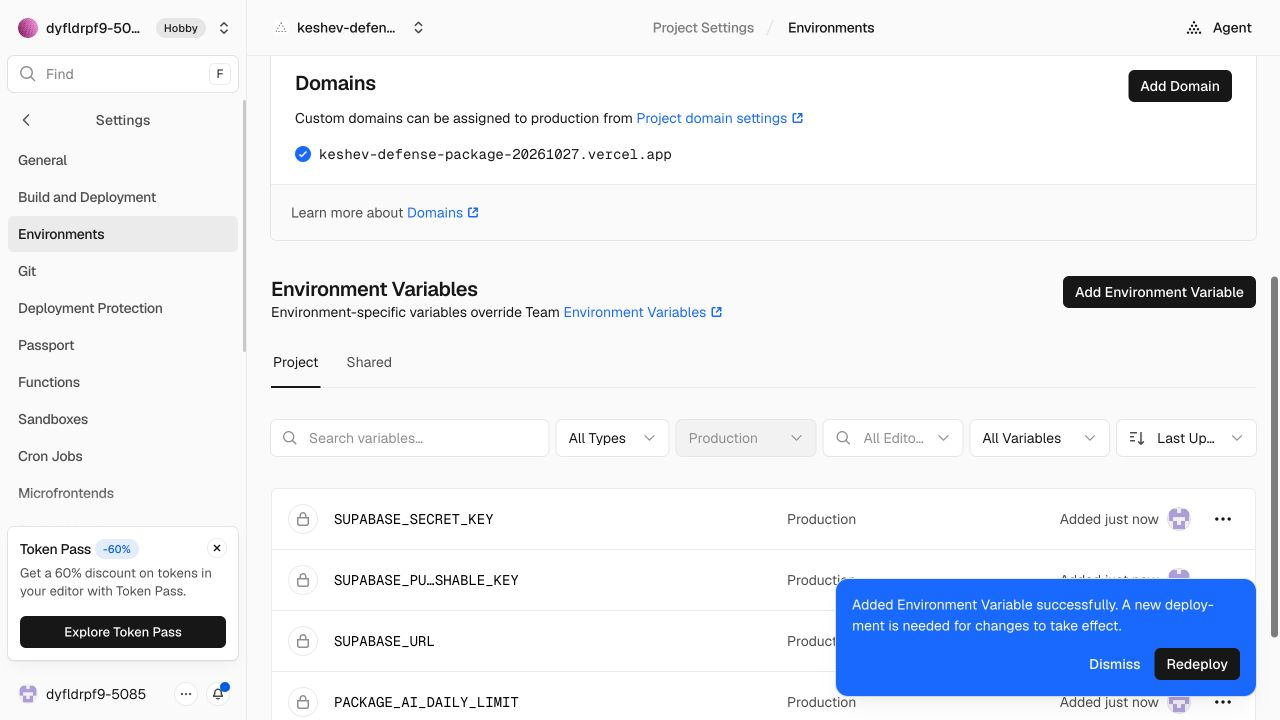
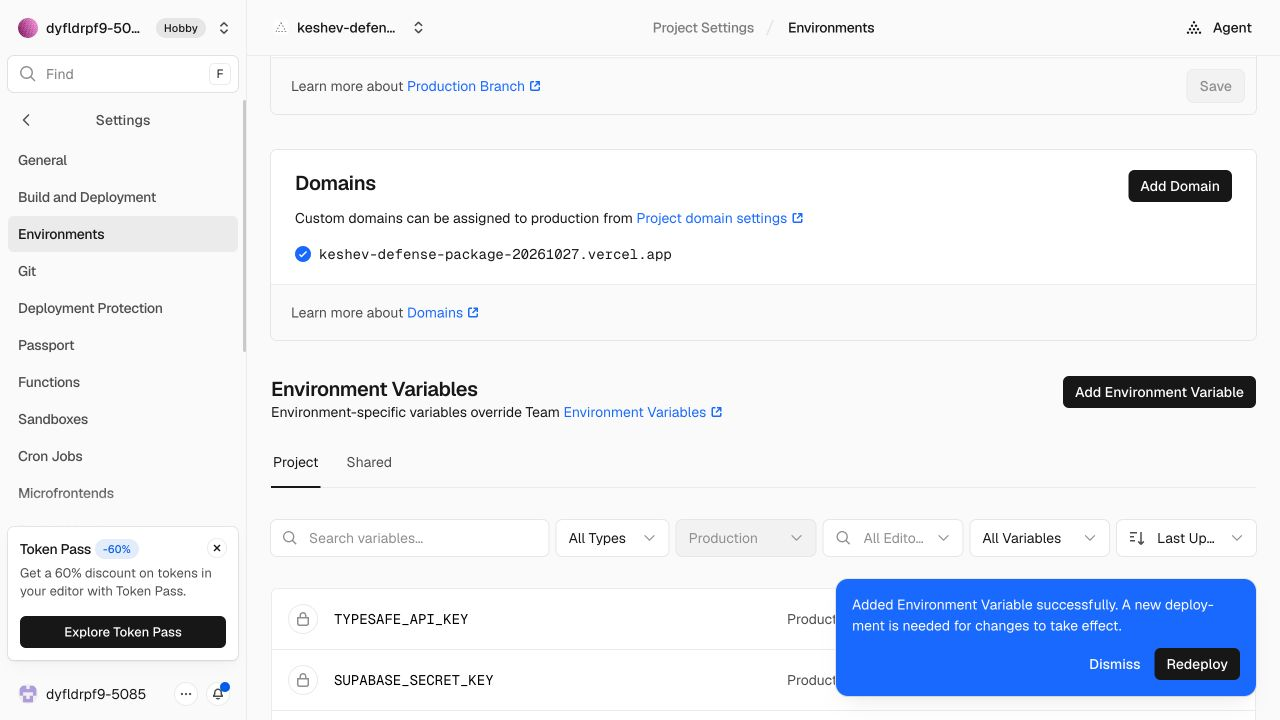
실제 AI 응답·한도 보존 검증과 조회 중 안내 마무리

diff --git a/public/app.js b/public/app.js
@@ -42,6 +42,7 @@
   }
   async function loadNotes() {
     const current = revision;
+    status('내 메모를 불러오는 중입니다.');
     $('#notes').replaceChildren();
     $('#workspace').hidden=true;
     $('#notes').setAttribute('aria-busy','true');

diff --git a/docs/FINAL_SUBMISSION.md b/docs/FINAL_SUBMISSION.md
@@ -1,6 +1,6 @@
 # 케셰브 마무리 제출 · 2026-10-27
 
-> **현재 상태: 제출 보류·요구사항 재검토.** `583e1ffccb1c69695177c0446c5dc2aa7b99a9ca`를 올려 접수했으나, 구현 조건 전체의 대조를 완료하기 전에 제출한 판단을 바로잡고 접수를 되돌렸다. 수정 브랜치는 `codex/defense-requirements-repair`다. 아래의 과거 제출 형식 설명만으로 구현 완료나 재제출 가능을 판단하지 않는다.
+> **구현·실측과 제출 이력.** `583e1ffccb1c69695177c0446c5dc2aa7b99a9ca`를 올려 접수했으나, 구현 조건 전체의 대조를 완료하기 전에 제출한 판단을 바로잡고 접수를 되돌렸다. 수정 브랜치는 `codex/defense-requirements-repair`다. 아래의 과거 제출 형식 설명만으로 구현 완료나 재제출 가능을 판단하지 않는다.
 
 기존 자료실에 인증·기기 승인·접근 제한을 적용하고, 기존 보안 Agent에서 접속 사건을 확인하고 대응하는 앱이다. 사용자 요청에 따라 수업용 SDP 대신 NetBird를 연결했고, PC 감시에는 공식 Wazuh 에이전트와 운영체제별 송신 센서를 추가했다. 새 자료실로 원래 자료를 대체하지 않는다.
 
@@ -16,9 +16,9 @@
 
 제출 파일·포장 형식의 생략과 구현 조건의 생략은 다르다. `setup.exe` 제외, NetBird와 개인 OpenAI OAuth 사용은 사용자의 명시적 선택이며, 이를 사용자별 호출 상한이나 공식 침해 정보 조회 등 다른 조건을 생략하는 근거로 확대하지 않는다.
 
-## 보완해야 할 조건
+## 보완한 조건과 실제 근거
 
-2026-10-27 현재 방어전 1~7일차 전체 할 일·AI 요청·확인/실패 안내와 21·22단계 상세·공식 안내, 메모리얼 P1~P8을 다시 읽었다. 현재 P1~P8 판정은 0/8이며 아래 미충족을 해결·검증하기 전에는 전체 결과물의 완료나 재제출 가능을 주장하지 않는다.
+2026-10-27 현재 방어전 1~7일차 전체 할 일·AI 요청·확인/실패 안내와 21·22단계 상세·공식 안내, 메모리얼 P1~P8을 다시 읽었다. 현재 P1~P8 판정은 0/8이며 아래는 발견한 차이를 보완한 기록이다. 최신 실측은 package/SELF-CHECK.md를 따르며 포털 판정0/8은 자체 검증과 구분한다.
 
 사이드바 CEX 마무리 과제와 메모리얼 패키지는 별도의 접수 화면이다. 접수 화면의 차이만으로 P1~P8을 면제하지도, 반대로 두 과제의 모든 조건이 같다고 단정하지도 않는다. 사용자는 총공세와 P1~P8을 모두 완성하도록 범위를 확정했다. 새 브랜치에서 두 조건을 모두 구현·검증하며, 기존 OAuth 연결과 NetBird는 보존한다.
 
@@ -26,11 +26,11 @@
 |---|---|---|
 | 2일차: 시각·단위·출처·개선 한 가지, 같은 시각의 작업 관리자 대조 | Windows 통합 요약에 시각·출처·이전 측정 비교·부분 실패를 구현하고 브라우저 표시 시험 완료. 실제 작업 관리자 직접 대조 완료. 표본 구간/집계 차이를 package/WINDOWS-COMPARISON.md에 기록 | Windows 요약에 시각·출처·이전 실측 비교와 부분 실패 표시를 보완. 실제 Windows 화면에서 같은 단위·집계·가까운 시각으로 대조 |
 | 5일차·22단계: 현재 최종 커밋의 별도 경로 재현 | 초기 조회 기능·과거22단계의 재현을 최신 통합 전체의 재현으로 합칠 수 없음 | 235c87d를 새 폴더에서 의존성 설치·전체 실행·재시작·자료/감시/캐시 보존 검증. 기존 자격은 복사하지 않음 |
-| P1·P8: 실제 제품 문서·구성도·규칙·침해 정보 대조 | 실제 구성도·규칙·선언 버전·대조와 시연 문서 작성. 실제 배포 증빙은 미검증 | 실제 코드와 일치하게 작성하고 미실행을 성공으로 기입하지 않음 |
+| P1·P8: 실제 제품 문서·구성도·규칙·침해 정보 대조 | 실제 구성도·규칙·선언 버전·대조와 시연 문서 작성. 실제 새 배포·공식 정보·AI/한도 증빙을 package/SELF-CHECK.md에 연결 | 실제 코드와 일치하게 작성하고 미실행을 성공으로 기입하지 않음 |
 | P3: 두 서버 API의 인증 거부·함수 범위 | 두 API에 원본 JWT/XDR/NetBird 검증 구현. 로컬401·서명/권한/고정 경로 회귀 통과. 새 배포의 무로그인/무효 토큰401·유효 토큰 직접 우회403·서명 TI200 확인 | 기존 인증·기기·권한 경계를 보존한 구현과 실제 무로그인 거부·정상 요청 확인. 함수 기준표의 기존/신규 범위도 출처 대조 |
-| P4: 사용자별 AI 호출 상한 | 서비스 전용 DB 원자적 UTC 일일 한도 구현. 실제 PostgreSQL35동시30허용/5거부·재시작 보존 확인, 실제 클라우드200→429는 미검증 | 서버가 확인한 사용자 기준으로 상한 집행, 재시작·동시 요청·초과 거부와 정상 응답을 확인 |
+| P4: 사용자별 AI 호출 상한 | 서비스 전용 DB 원자적 UTC 일일 한도 구현. 실제 PostgreSQL35동시30허용/5거부·재시작 보존 확인, 실제 모델1회 응답·한도1/1·초과429·Mac 재시작 뒤429 유지 확인 | 서버가 확인한 사용자 기준으로 상한 집행, 재시작·동시 요청·초과 거부와 정상 응답을 확인 |
 | P5: NVD·CISA KEV와 받은 시각 | 공식 원천 실제 수신·6시간 영속 캐시와 보수적 CPE 대조 구현. 배포 API/DB캐시/UI 실연동200·원래 수신시각 유지 확인 | 공식 출처 조회·캐시·받은 시각·실제 제품 버전 대조, 조회 실패와 취약점 없음 구분 |
-| P7: README대로 새 Vercel 프로젝트에서 실행 | 새 프로젝트 생성·보완 브랜치 Production·네 환경변수·실제 첫 화면/9ef95a6 일치 확인. TypeSafe/최종 수정본 검증은 남음 | 별도 새 배포에서 README 절차·첫 화면·관련 정상/거부를 실제 확인 |
+| P7: README대로 새 Vercel 프로젝트에서 실행 | 새 프로젝트 생성·보완 브랜치 Production·다섯 환경변수·실제 첫 화면/c77bf51 일치·실제 AI 응답/429 확인. 최종 접수 커밋은 별도 대조 | 별도 새 배포에서 README 절차·첫 화면·관련 정상/거부를 실제 확인 |
 
 P2 비밀값 패턴 검사와 기존 P6 서버 판정의 근거는 아래 기록에 있다. 일부 조건의 성공을 위 미완료 항목을 포함한 전체 완료로 확대하지 않는다. 메모리얼과 CEX의 접수 화면이 다르다는 사실만으로 어느 조건을 임의 제외하지 않는다.
 
@@ -101,3 +101,9 @@ node personal-workspace/start.mjs
 보완 브랜치491e03d를 GitHub에 push했다. P1/P8 문서, 두 API와 서비스 전용 SQL, 고정 원천 캐시·보수적 버전 대조, 기존 앱/Windows 게이트웨이 연결, 서버 Auth 키 환경변수 이동을 포함한다. 기존 main583e1ff와 PC 관리자 설치본은 유지했다. 전체 로컬120시험이 통과했으며, 유효 anon 키가 없는 읽기 격리 실행은 권한 검증 미실행을 명시하도록 고쳤다. 키 없는 DB401을 유효 anon 권한 검증으로 재사용하지 않는다. 최신 실측은 [SELF-CHECK](../package/SELF-CHECK.md)를 따른다.
 
 실제 새 Vercel 프로젝트 `keshev-defense-package-20261027`을 생성하고 Production Branch를 보완 브랜치로 저장했다. 아직 배포 전이며 기존 프로젝트의 main 배포를 바꾸지 않았다. Windows/Mac NetBird 기존 등록의 정상 재인증과 앱 시작을 확인했다. 실제 자료실 로그인 요청 중 메일 제공자 `over_email_send_rate_limit`이 관측돼, 인증 성공/기기 승인으로 표시하지 않고 정상 인증 복구를 진행한다.
+
+## 실제 AI·호출 상한 후속 검증
+
+사용자 승인으로 새 TypeSafe 조직 키를 새 Vercel 서버에만 저장했다. 최초 미사용 키는 복사 도구 오류로 노출되어 추가 승인 후 접근 권한을 폐기했고 대체 키를 사용했다. 기존 키는 보존했고 키 값은 소스/제출에 넣지 않았다.14:08:30 KST 고정 가상 수치1회 실응답(표시 확신도5.0%, 사용량1/1),14:10:11 정상 초과429, 운영 예약1회·notes6건 유지,14:35:14 Mac 재시작 뒤429를 확인했다. 새 실제 모델 요청을 반복하거나 사용량을 지우지 않았다.
+
+문서 폴더 접근이 OS에서 거부된 뒤 공개 같은 커밋을 일반 개발 폴더에 받아 검증을 이어갔다. 기존 Windows 서버와 새 폴더 Mac의 재연결/정상 자료 조회를 확인했다. 자동 배치는 Mac Home 공유가 전제이며 공유 밖 폴더에서는 기존 서버를 재사용하는 수동 실행을 문서화했다. 현재 검증표는 package/SELF-CHECK.md가 정본이다. 과거 이 문서의 미검증/제출보류 기록을 이후 실제 결과와 혼동하지 않는다.

diff --git a/package/SELF-CHECK.md b/package/SELF-CHECK.md
@@ -5,7 +5,7 @@
 ## P3. 두 서버의 무로그인 거부
 
 - 코드/로컬: 두 API가 런타임/키/외부 원천을 읽기 전에401. 원본 JWT·XDR·서명 게이트웨이를 재사용. 가짜 신원과 임의 URL/중복 쿼리 거부 시험 통과.
-- 실제 새 배포: 두 API 무로그인401 `LOGIN_REQUIRED`, 무효 토큰401 `INVALID_LOGIN`, 유효한 현재 사용자 토큰만으로 직접 접근하면403 `NETBIRD_GATEWAY_REQUIRED`. Cache-Control no-store·nosniff 확인. 정상 서명 게이트웨이를 거친 침해 정보는200. AI 정상 응답은 P4의 별도 미검증 항목이다.
+- 실제 새 배포: 두 API 무로그인401 `LOGIN_REQUIRED`, 무효 토큰401 `INVALID_LOGIN`, 유효한 현재 사용자 토큰만으로 직접 접근하면403 `NETBIRD_GATEWAY_REQUIRED`. Cache-Control no-store·nosniff 확인. 정상 서명 게이트웨이를 거친 침해 정보는200. 정상 서명 AI 응답과 한도 초과는 P4에서 별도로 확인했다.
 - 캡처: [AI401](self-check/P3-1.png), [침해 정보401](self-check/P3-2.png).
 
 ## P4. 실제 AI 호출 상한
@@ -13,8 +13,9 @@
 - 2026-10-27 격리된 실제 PostgreSQL16:35개 동시 요청30허용/5거부, 별도 사용자 분리, DB 재시작 후 사용량 보존, anon/authenticated 테이블/RPC 거부, migration 재실행 확인. 운영 연결과 구분한다.
 - 실제 Supabase: 서비스 전용 두 테이블/RPC 적용. 기존 notes6건 보존. RLS=true, anon read=false, authenticated cache write/RPC=false, service_role RPC=true. [권한 캡처](self-check/schema.png).
 - 실제 새 배포의 키 미설정 실패는503 `AI_NOT_CONFIGURED`로 표시되며 운영 DB 예약0회·사용량 행0개를 확인했다. 성공으로 꾸미거나 일일 사용량을 초기화하지 않았다.
-- 실제 클라우드200→429: **미검증**. 새 프로젝트의 서버 한도를1로 설정하고 고정 비민감 요약 한 번의 실제 모델 응답과 다음429, 재시작 이후 한도 유지 확인 예정. 이미 사용한 일별 기록은 삭제/시계 조작으로 초기화하지 않는다.
-- 캡처: self-check/P4-1.png, self-check/P4-2.png (검증 후 추가).
+- 실제 클라우드: 새 서버 Jev에 가상 수치5개로 단1회 전송. 2026-10-27 14:08:30 KST 실제 완료 응답, 표시 확신도5.0%·사용량1/1·다음 초기화10월28일09:00 KST. 이후 정상 승인 요청은14:10:11 HTTP429 `AI_DAILY_LIMIT`, Retry-After67789초. 운영 DB는 사용량1행·예약1회·기존 notes6건·캐시3행을 확인했다.
+- Mac 앱 재시작/새 소스 경로에서 정상 원래 자료 조회를 복구한 뒤14:35:14에도429·Retry-After66286초. 한도/시계/사용량을 초기화하지 않았고 추가 모델 전송을 하지 않았다. 토큰 갱신 직후 기기 승인 전401은 한도 판정과 구분했다.
+- 근거: [실제 화면에서 추출한 성공 응답](self-check/P4-1.txt), [실제 초과 안내 화면](self-check/P4-2.png). 최초 성공 PNG는 기존 로컬 검증 자료에 보존했고 문서 폴더 권한 중단 이후 복사하지 않았다. 응답 화면을 합성하지 않았다.
 
 ## P5. 공식 침해 정보·수신 시각
 
@@ -26,13 +27,24 @@
 ## P7. 새 프로젝트 배포·첫 화면
 
 - 새 프로젝트 `keshev-defense-package-20261027`, Production은 보완 브랜치만 추적. 기존 main 배포 보존. 실제 첫 화면 https://keshev-defense-package-20261027.vercel.app/ 200, nosniff, `/aleph.json`의 원격 커밋9ef95a64e1638f4016c0a5239cc951518894fde4 일치. 후속 코드235c87d639b709fc24031fa74811ccdbf8b38a6e도 실제 Production Ready·동일 커밋·첫 화면200·두 API401을 재확인했다.
-- 네 환경변수(Supabase 세 값·AI 한도1)를 Secret으로 저장하고 새 Production 배포 Ready 확인. 실제 Auth/DB 연결은 P3/P5와 기존 자료실 검증으로 확인했다. TypeSafe 키 추가와 실제 모델200→429는 아직 남아 있다. 코드235c87d의 새 배포와 같은 커밋의 새 폴더 실행/재시작은 확인했다.
+- 다섯 환경변수(Supabase 세 값·TypeSafe 키·AI 한도1)를 Secret으로 저장하고 새 Production 배포 Ready 확인. 실제 Auth/DB 연결은 P3/P5와 기존 자료실 검증으로 확인했다. TypeSafe 키를 새 서버에만 저장한 배포에서 실제 모델 응답과429를 확인했다. 코드235c87d의 새 배포와 같은 커밋의 새 폴더 실행/재시작은 확인했다.
 - 캡처: self-check/P7-1.png(값 없는 환경변수 이름), self-check/P7-2.png(Ready/커밋), self-check/P7-3.png(실제 첫 화면).
 
 ## 총공세·기존 보호
 
 - 1~7일차·21/22 안내를 다시 정독해 요구별 구현/검증을 기록했다. setup.exe는 사용자 제외이며 현재 package-app 없는 시작 틀의 포장 생략 안내를 적용한다.
-- Windows 현재 통합 앱을 작업 관리자에서 직접 대조했다. [실측과 차이](WINDOWS-COMPARISON.md)를 따른다. 무거운 PowerShell 조회와 CPU 표본이 겹치는 문제를 발견해 CPU를 먼저 측정하도록 보완했다. 같은235c87d를 Git에서 다시 받은 별도 폴더에서 의존성 설치·빌드·통합 앱 시작/종료/재시작을 확인했다. [재현 기록](REPRODUCTION.md)을 따른다. 개인 AI 외부 호출과 서버 AI 실응답은 이 재현에서 수행하지 않았다.
+- Windows 현재 통합 앱을 작업 관리자에서 직접 대조했다. [실측과 차이](WINDOWS-COMPARISON.md)를 따른다. 무거운 PowerShell 조회와 CPU 표본이 겹치는 문제를 발견해 CPU를 먼저 측정하도록 보완했다. 같은235c87d를 Git에서 다시 받은 별도 폴더에서 의존성 설치·빌드·통합 앱 시작/종료/재시작을 확인했다. [재현 기록](REPRODUCTION.md)을 따른다. 이후 같은 코드에서 서버 AI 실응답·재시작 후 한도 보존도 확인했다. 개인 OAuth의 추가 모델 호출은 수행하지 않았다.
 - 기존 정상 계정·기기 승인·본인 메모1건을 그대로 사용했다. 같은 로그인과 기기 서명으로 원래 공개 자료실 HTTP403, NetBird 경로 HTTP200을 실제 확인했다. 계정/자료를 새로 만들거나 삭제하지 않았다.
 - 9ef95a6 전체 로컬120시험·실제 제한 격리 실행 통과(HTTP19회·읽기 Git6회). 키 없는 DB401과 유효 anon 권한 검증을 구분하고 미실행2항목을 명시했다. 후속235c87d 원본/새 폴더에서 각각 전체120시험, 새 폴더의 실제 제한 격리 실행도 통과(HTTP19·읽기 Git6·미실행2). 텍스트354파일 비밀 패턴0건, 공개 캡처 수동 검토. 이후 문서만 바뀐 커밋도 제출 전 원격/실제 배포 일치를 재대조한다.
 - 미검증 조건이 모두 해소되기 전 CEX/메모리얼을 재제출하지 않는다.
+
+## P1·P2·P6·P8 대조와 남은 접수 절차
+
+| 조건 | 구현·실제 근거 |
+|---|---|
+| P1 | package/README·ARCHITECTURE·POLICIES·THREAT-INTEL·DEMO·SELF-CHECK 및 실제 증거 |
+| P2 | 최신 추적 소스/제출 대상의 키·JWT·개인키 패턴 검사와 캡처 수동 검토. 과거 공개 키가 Git 이력에서 사라졌다고 하지 않음 |
+| P6 | 원본 JWT/기기/owner/XDR/NetBird 서명을 서버에서 확인. 같은 정상 사용자·서명의 공개403/NetBird200 실측 |
+| P8 | ARCHITECTURE·POLICIES가 실제 모듈/6판단기/지원 Agent/원천 조치와 일치. THREAT-INTEL의5개 선언 버전·CPE 조건·KEV 대조/한계를 기록 |
+
+구현·실연결 검증과 심판 판정은 다르다. CEX는 커밋40자리를 받지만 메모리얼은 저장소 URL만 받는다. 잘못된 main 코드를 제출하지 않도록 최종 PR/배포 커밋을 먼저 대조한다. 제출 후에도 실제 접수번호·판정을 확인하기 전 통과로 보고하지 않는다.

diff --git a/package/README.md b/package/README.md
@@ -5,7 +5,7 @@
 ## 준비물과 실행 경계
 
 - 저장소: https://github.com/SKT-ALEPH/choi-bujang-secret-vault
-- 보완 브랜치: `codex/defense-requirements-repair`. 기존 main과 기존 Vercel 프로젝트를 변경하지 않는다.
+- 보완 브랜치: `codex/defense-requirements-repair`. 병합 전까지 기존 main과 기존 Vercel 프로젝트를 유지한다. 기본 브랜치 승격 시 기존 Auth에도 SUPABASE_PUBLISHABLE_KEY 서버 설정을 먼저 적용해야 원래 로그인이 유지된다.
 - 웹: GitHub·Vercel·Supabase 계정. 기존 Supabase 프로젝트의 Auth와 스키마를 재사용한다. 새 빈 DB를 쓰려면 루트 README의 2~12단계 스키마와 기기/게이트웨이 nonce 스키마를 먼저 적용하고 실제 계정·기기를 등록해야 한다. 이 문서의 P7은 새 Vercel 프로젝트 재현이며 빈 DB 이관 시험이 아니다.
 - 통합 앱: Apple Silicon Mac, Parallels Windows 11 ARM64 일반 사용자 로그인, 두 기기에 Node **24.19.0**, Mac 홈 공유, 공식 NetBird 설치·등록. Mac→Windows TCP **54123** 한정 정책을 사용한다. 전체망 허용·SSH·RDP가 필요하지 않다.
 - PC 감시: Docker Desktop의 전용 Wazuh manager와 두 OS의 공식 에이전트·송신량 센서. 관리자 설치는 [PC 감시 안내](../pc-security/README.md)를 따른다. 이 구성 없이도 자료실·NetBird·개인 AI를 쓸 수 있으나 PC 경보·새 OS 자동 대응은 제공되지 않는다.
@@ -38,7 +38,7 @@
 
 ## 통합 앱 시작과 사용
 
-저장소 루트에서 `node personal-workspace/start.mjs`를 실행하고 http://127.0.0.1:5189/ 를 연다. 자세한 기기 등록·키 보관·초기 준비는 [NetBird 안내](../on-client/docs/STUDENT_NETBIRD.md), [AI 안내](../personal-ai/README.md), [전체 실행 설명](../personal-workspace/README.md)을 따른다. 별도 폴더의 실제 준비·시작·재시작과 기존 인증 재연결은 [재현 기록](REPRODUCTION.md)에 있다. 앱을 재시작하면 먼저 첫 화면을 새로고침한 뒤 자료실 목록/복구 조회를 눌러 로컬 세션을 갱신한다.
+저장소 루트에서 `node personal-workspace/start.mjs`를 실행하고 http://127.0.0.1:5189/ 를 연다. 자세한 기기 등록·키 보관·초기 준비는 [NetBird 안내](../on-client/docs/STUDENT_NETBIRD.md), [AI 안내](../personal-ai/README.md), [전체 실행 설명](../personal-workspace/README.md)을 따른다. 별도 폴더의 실제 준비·시작·재시작과 기존 인증 재연결은 [재현 기록](REPRODUCTION.md)에 있다. 앱을 재시작하면 먼저 첫 화면을 새로고침한 뒤 자료실 목록/복구 조회를 눌러 로컬 세션을 갱신한다. 공유되지 않은 새 소스 폴더에서 이미 설치된 Windows 서버를 재사용하는 방법은 통합 실행기 안내의 수동 실행을 따른다.
 
 1. 기존 자료실 열기 → 원래 계정 로그인 → 기기 승인 → 본인 자료 조회. 인증·기기·서버 권한이 없으면 거부돼야 한다.
 2. Windows 상태 다시 조회 → CPU·메모리·디스크의 시각/단위와 이전 성공값 비교. 읽지 못한 값은 확인 불가다. System/Application 건수는 공격 판정이 아니다.

diff --git a/package/REPRODUCTION.md b/package/REPRODUCTION.md
@@ -24,3 +24,9 @@
 | 기존 제한 제출 실행 | 새 폴더의 별도 `bundle-notes.json`에 비밀 없는 설명을 작성하고 VM 제한 실행 통과. 실제 HTTP19·읽기 Git6·미실행2. 가상 판정 아님 |
 
 이후 문서/캡처만 추가된 저장점은 소스 해시·새 배포 신원과 재실행을 최종 외부 작업 기록에서 대조한다. AI200→429·사용량 보존 검증이 끝나기 전에는 전체 완료/제출로 판단하지 않는다. 개인 OAuth의 기존 실제 응답/OS900초 차단 복구는 기존 증빙을 보존하며 이번 재현에서 유료 모델이나 위험 송신을 추가 실행한 것으로 쓰지 않는다.
+
+## 후속 실제 AI와 접근 가능한 새 경로
+
+실제 AI 응답은14:08:30 KST, 이후 정상 승인 상태의429를 확인했다. 운영 예약은1회다. 이어 문서 폴더가 OS의 EPERM으로 읽히지 않아 공개 원격의 같은 c77bf51을 일반 개발 폴더에 다시 clone했다. 공식 Node24.19.0을 SHA256 대조해 준비하고 root/personal-ai npm ci·로컬 빌드·120시험을 통과했다. 이 폴더는 기존 Parallels Home 공유 범위 밖이어서 자동 배치는 실패했다. 기존 Windows 실행본의 정상 health200·서명 API200을 확인하고, 같은 서버 소스를 유지한 채 위 통합 실행기 안내의 Mac 수동 실행을 사용했다.
+
+원래 브라우저의 정상 자료 조회1건이 복구됐고14:35:14에도 AI429/원래 일일 한도가 유지됐다. 이 과정에서 문서 폴더를 우회해 읽거나 전체 디스크 접근·새 네트워크 포트를 허용하지 않았다. 마지막 추가 소스 변경은 자료 조회 중 문구1줄이며 서버/Windows 코드에는 변경이 없다. 최종 커밋의 회귀/배포·기존 자료·한도 보존은 접수 직전 다시 대조한다.

diff --git a/personal-workspace/README.md b/personal-workspace/README.md
@@ -11,3 +11,13 @@ node personal-workspace/start.mjs
 이 디렉터리의 이름과 Windows SQLite 경로는 이미 저장된 감사·기기 권한·영수증과 예전 실험 자료를 보존하기 위해 유지한다. 예전에 추가한 별도 노트 화면과 `/workspace/api/notes`는 현재 업무 자료 경로로 제공하지 않는다. 기존 Supabase 메모와 사용자는 그대로 유지한다.
 
 현재 단계·검증 결과·미완료 조건과 실행 경계는 위 정본 문서를 따른다. GitHub 배포나 심판 통과를 추정하지 않는다.
+
+## Windows 서버가 이미 실행 중인 경우
+
+자동 시작기는 소스 폴더가 Parallels의 기존 Mac Home 공유에 보여야 Windows에 배치할 수 있다. 새로운 개발 폴더가 공유 범위 밖이면 자동 복사가 실패하며, 전체 디스크/전체 폴더 공유 권한을 추가해서 해결하지 않는다. 이미 등록된 Windows 실행본이 같은 서버 소스이며 실행 중인 경우 Mac 부분만 다음처럼 시작할 수 있다.
+
+```sh
+KESHEV_NETBIRD_TARGET_IP='[등록된 Windows의 NetBird IPv4]' node personal-workspace/server.mjs
+```
+
+Node24.19.0·기존 Keychain/DPAPI·NetBird 등록·Windows54123 실행이 전제다. 값은 공식 NetBird의 해당 등록 기기에서 확인한다. 임의 호스트/포트나 새 Windows 서비스를 만들지 않는다. 이 경로도 원래 Agent의 사용자·기기·XDR·서명 검사를 그대로 거친다. Mac 앱 종료는 Ctrl+C이며 Windows·감시 서비스는 계속 실행된다. 첫 화면을 다시 연 뒤 기존 자료실의 정상 서명 조회/기기 승인으로 세션을 갱신한다. 자료/감사 DB/키를 다른 폴더에 복사하지 않는다.

diff --git a/package/DEMO.md b/package/DEMO.md
@@ -10,4 +10,4 @@
 6. 실제 보안 기록의 근거·규칙을 열고 지원 Agent 조치의 사람 확인→원천 효과→복구를 보여 준다. 이전900초 OS 차단 실측은 [PC 검증표](../docs/PC_SECURITY_VERIFICATION.md)로 확인한다. 새 위험 송신이나 실제 자료 유출을 시연용으로 실행하지 않는다.
 7. Ctrl+C로 앱을 닫고 같은 명령으로 재시작한다. 기존 사용자 자료·감사·권한과 DB 호출 한도/캐시가 유지되는지 확인한다. OS 서비스는 별도로 작동한다.
 
-실제 캡처는 `self-check/`의 SELF-CHECK 링크를 따른다. 현재 DB 스키마/권한 확인: [schema.png](self-check/schema.png). P3·P5·P7 캡처는 실측표에 연결했다. P4 실제 응답/429와 최종 커밋 재현은 아직 검증 중이다. Windows 실측은 [대조 기록](WINDOWS-COMPARISON.md)을 따른다. 캡처를 만들기 위해 가상 성공 화면을 합성하지 않는다.
+실제 캡처는 `self-check/`의 SELF-CHECK 링크를 따른다. 현재 DB 스키마/권한 확인: [schema.png](self-check/schema.png). P3·P5·P7 캡처는 실측표에 연결했다. P4 실제 성공 응답은 화면 추출 텍스트이며,429 화면과 재시작 후 한도 보존을 확인했다. 최종 접수 커밋은 별도로 대조한다. Windows 실측은 [대조 기록](WINDOWS-COMPARISON.md)을 따른다. 캡처를 만들기 위해 가상 성공 화면을 합성하지 않는다.

diff --git a/README.md b/README.md
@@ -1,4 +1,4 @@
-> **2026-10-27 제출 보류 · 검증 중:** GitHub 주소와 커밋으로 접수할 수 있다는 안내를 구현 조건의 생략 허용으로 해석한 판단을 철회했다. 접수했던 마무리 과제는 되돌렸으며, `codex/defense-requirements-repair`에서 요구사항을 다시 대조하고 보완한다. 실제로 확인한 기존 자료실·NetBird·Wazuh 결과와 아직 충족하지 못한 조건은 [마무리 제출 설명서](docs/FINAL_SUBMISSION.md)를 따른다. 과거 단계 통과를 최신 결과물 전체의 완성 판정으로 사용하지 않는다.
+> **2026-10-27 패키지 보완:** 총공세와 P1~P8의 실제 구현·연결·재현 결과는 [SELF-CHECK](package/SELF-CHECK.md)를 따른다. 이전에 성급하게 접수한 마무리 제출은 철회했고 보완 브랜치에서 바로잡았다. 현재 GitHub/배포 커밋과 접수·심판 판정은 별도로 대조하며 과거100점을 최신 결과물 전체의 판정으로 사용하지 않는다.
 
 # BYTE BACK 자료실 · 12단계
 
